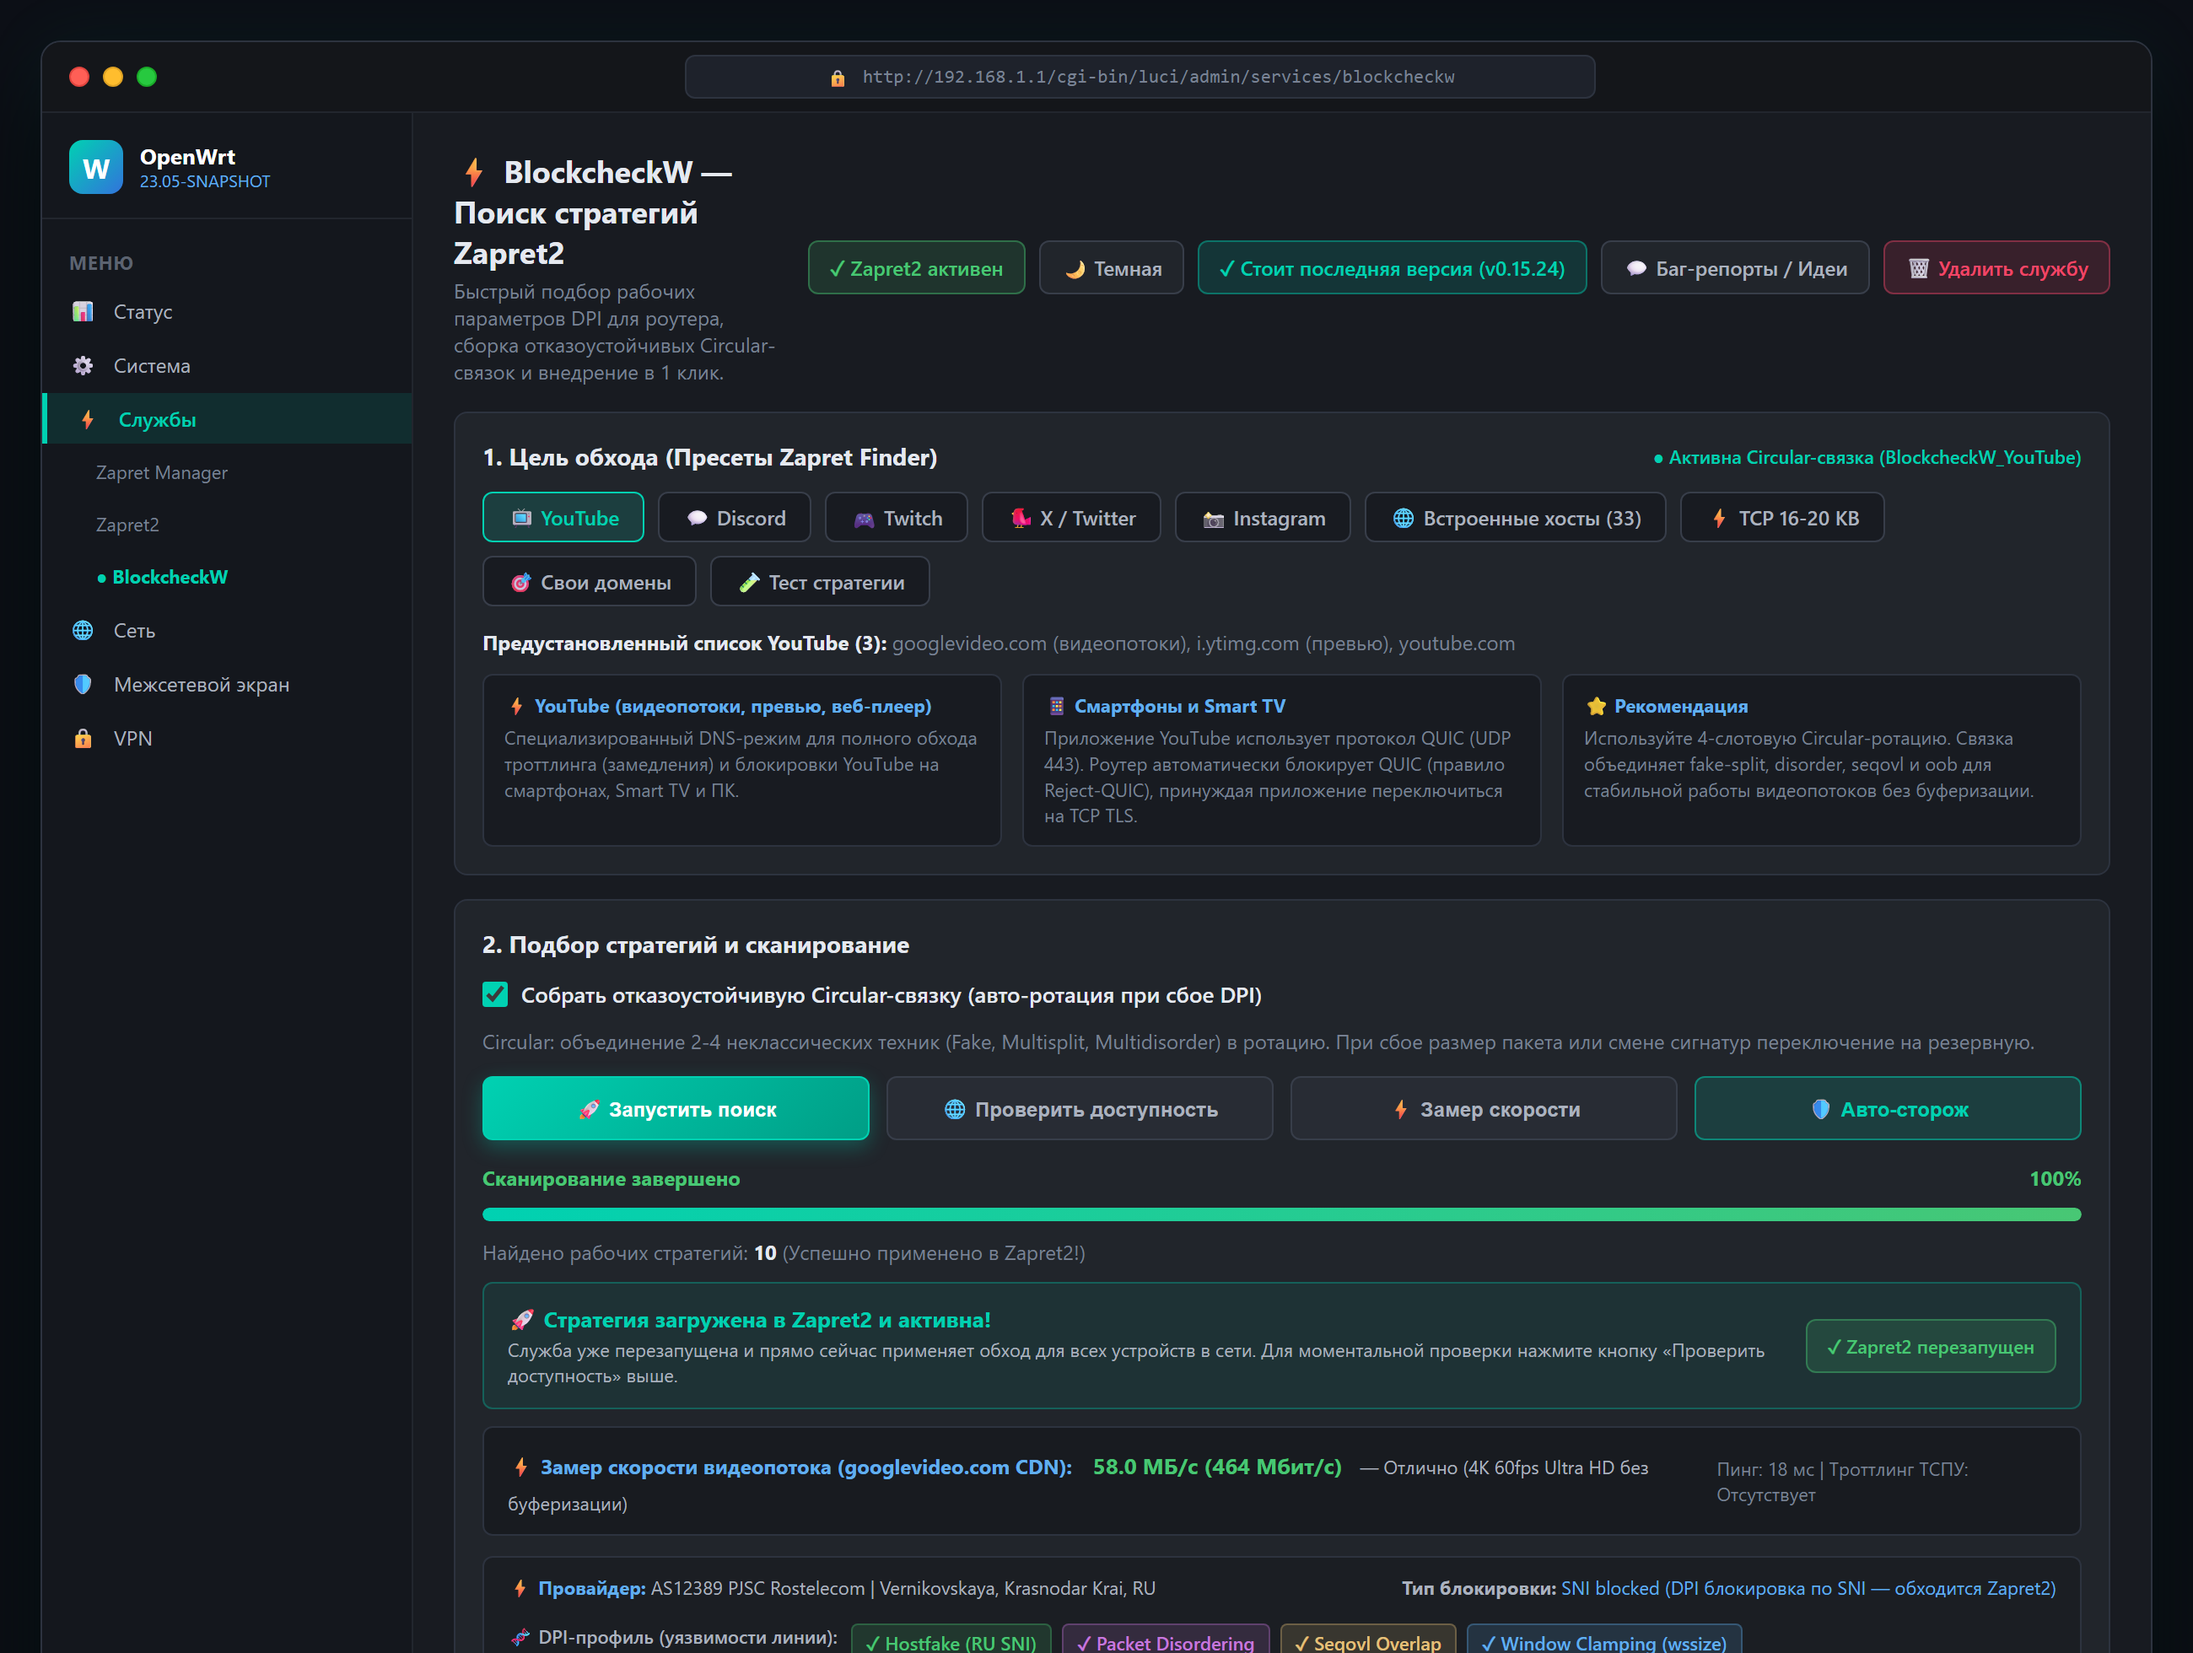
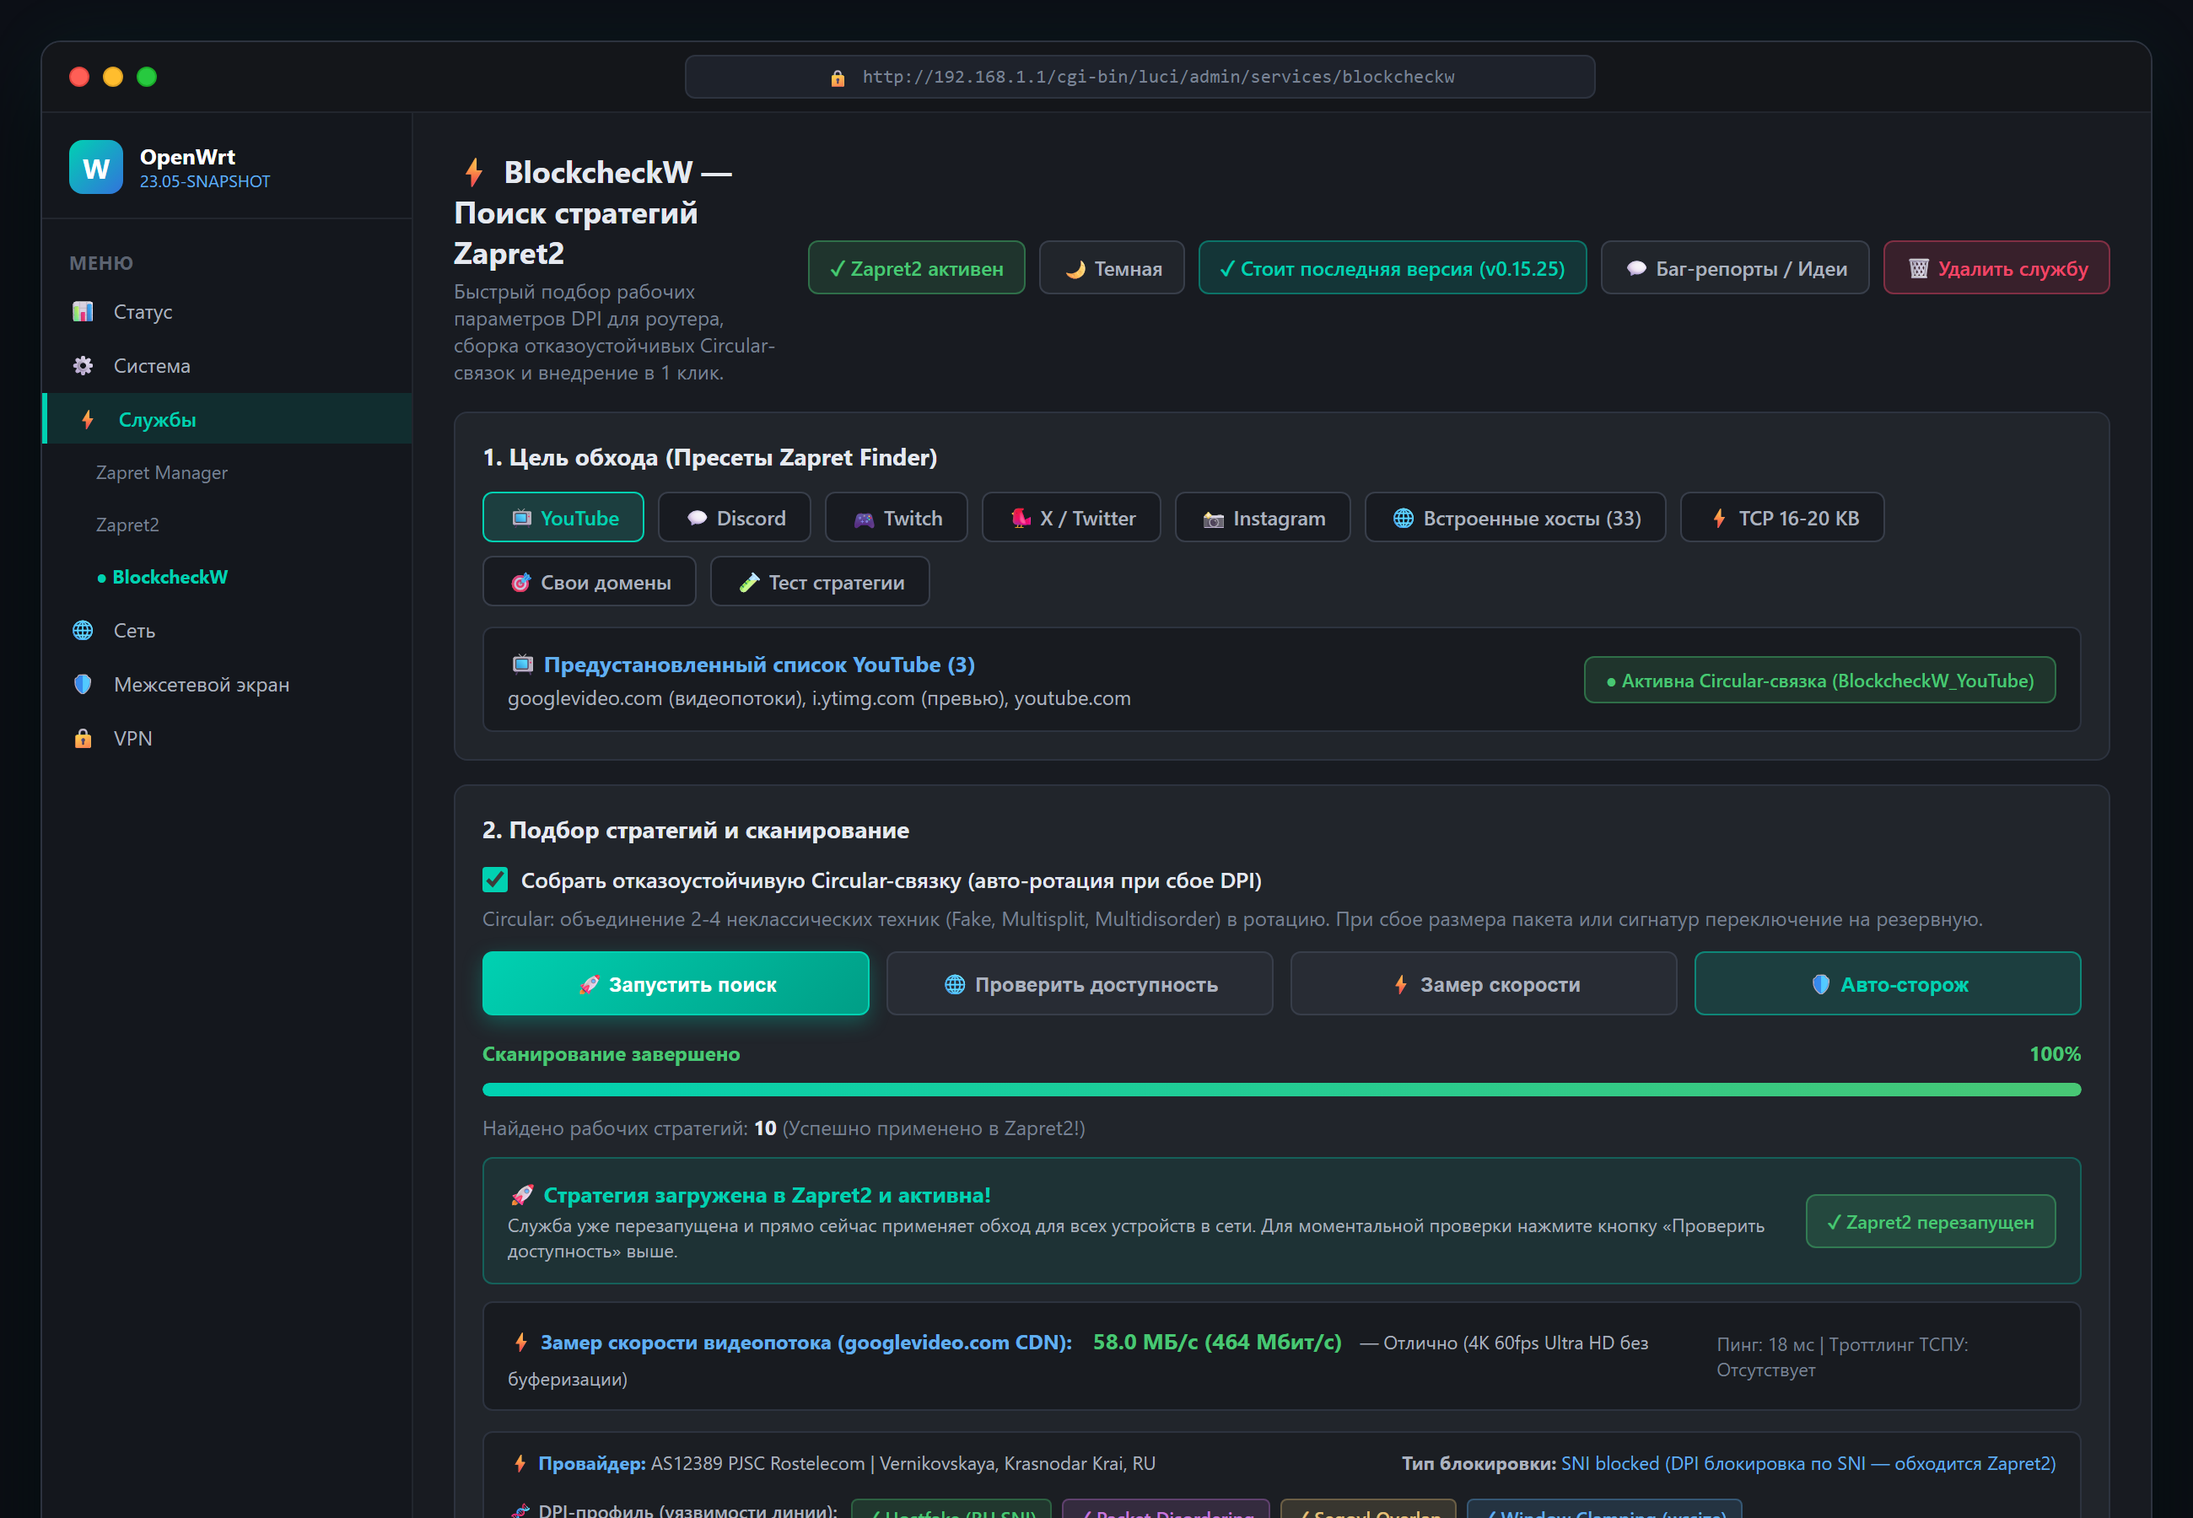
UI: Remove bulky obsolete preset hint blocks from Section 1 for clean, compact layout (v0.15.25)

diff --git a/openwrt/luci-app-blockcheckw/root/www/luci-static/resources/view/blockcheckw/main.js b/openwrt/luci-app-blockcheckw/root/www/luci-static/resources/view/blockcheckw/main.js
@@ -889,8 +889,7 @@ return view.extend({
 			tilesGridEl,
 			customDomainRow,
 			testStrategyRow,
-			targetSummaryBox,
-			modeHintBox
+			targetSummaryBox
 		]);
 		mainLayout.appendChild(targetSectionCard);
 
@@ -1663,33 +1662,7 @@ return view.extend({
 		}
 
 		function updateModeHint() {
-			var pDef = PRESET_DEFS[currentTarget] || PRESET_DEFS['builtin'];
-			var h = pDef.hint;
-			if (!h) {
-				modeHintBox.style.display = 'none';
-				return;
-			}
-			modeHintBox.style.display = 'flex';
-
-			modeHintTitleEl.textContent = '💡 ' + (h.title || pDef.name);
-			modeHintSummaryEl.textContent = h.summary || '';
-
-			while (modeHintGridEl.firstChild) {
-				modeHintGridEl.removeChild(modeHintGridEl.firstChild);
-			}
-
-			if (h.details && h.details.length) {
-				h.details.forEach(function(item) {
-					var itemEl = E('div', { class: 'bcw-hint-item' }, [
-						E('div', { class: 'bcw-hint-item-title' }, item.title),
-						E('div', { class: 'bcw-hint-item-text' }, item.text)
-					]);
-					modeHintGridEl.appendChild(itemEl);
-				});
-				modeHintGridEl.style.display = 'grid';
-			} else {
-				modeHintGridEl.style.display = 'none';
-			}
+			// Mode hint box removed for a cleaner, compact interface
 		}
 
 		function updateSummaryBox() {

diff --git a/README.md b/README.md
@@ -1,6 +1,6 @@
 # BlockcheckW (Zapret2 Edition)
 
-[![GitHub Release](https://img.shields.io/badge/Release-v0.15.24-00d1b2?style=flat-square)](https://github.com/prostoy23rus/blockcheckw)
+[![GitHub Release](https://img.shields.io/badge/Release-v0.15.25-00d1b2?style=flat-square)](https://github.com/prostoy23rus/blockcheckw)
 [![OpenWrt](https://img.shields.io/badge/OpenWrt-21.02%20|%2022.03%20|%2023.05%20|%2024.10%20|%2025.x%20|%20snapshot-blue?style=flat-square)](https://openwrt.org)
 [![Architectures](https://img.shields.io/badge/Arch-arm64%20|%20x86__64%20|%20arm%20|%20mips%20|%20mipsel%20|%20riscv64-success?style=flat-square)](https://github.com/prostoy23rus/blockcheckw)
 [![License: MIT](https://img.shields.io/badge/License-MIT-yellow.svg?style=flat-square)](LICENSE)
